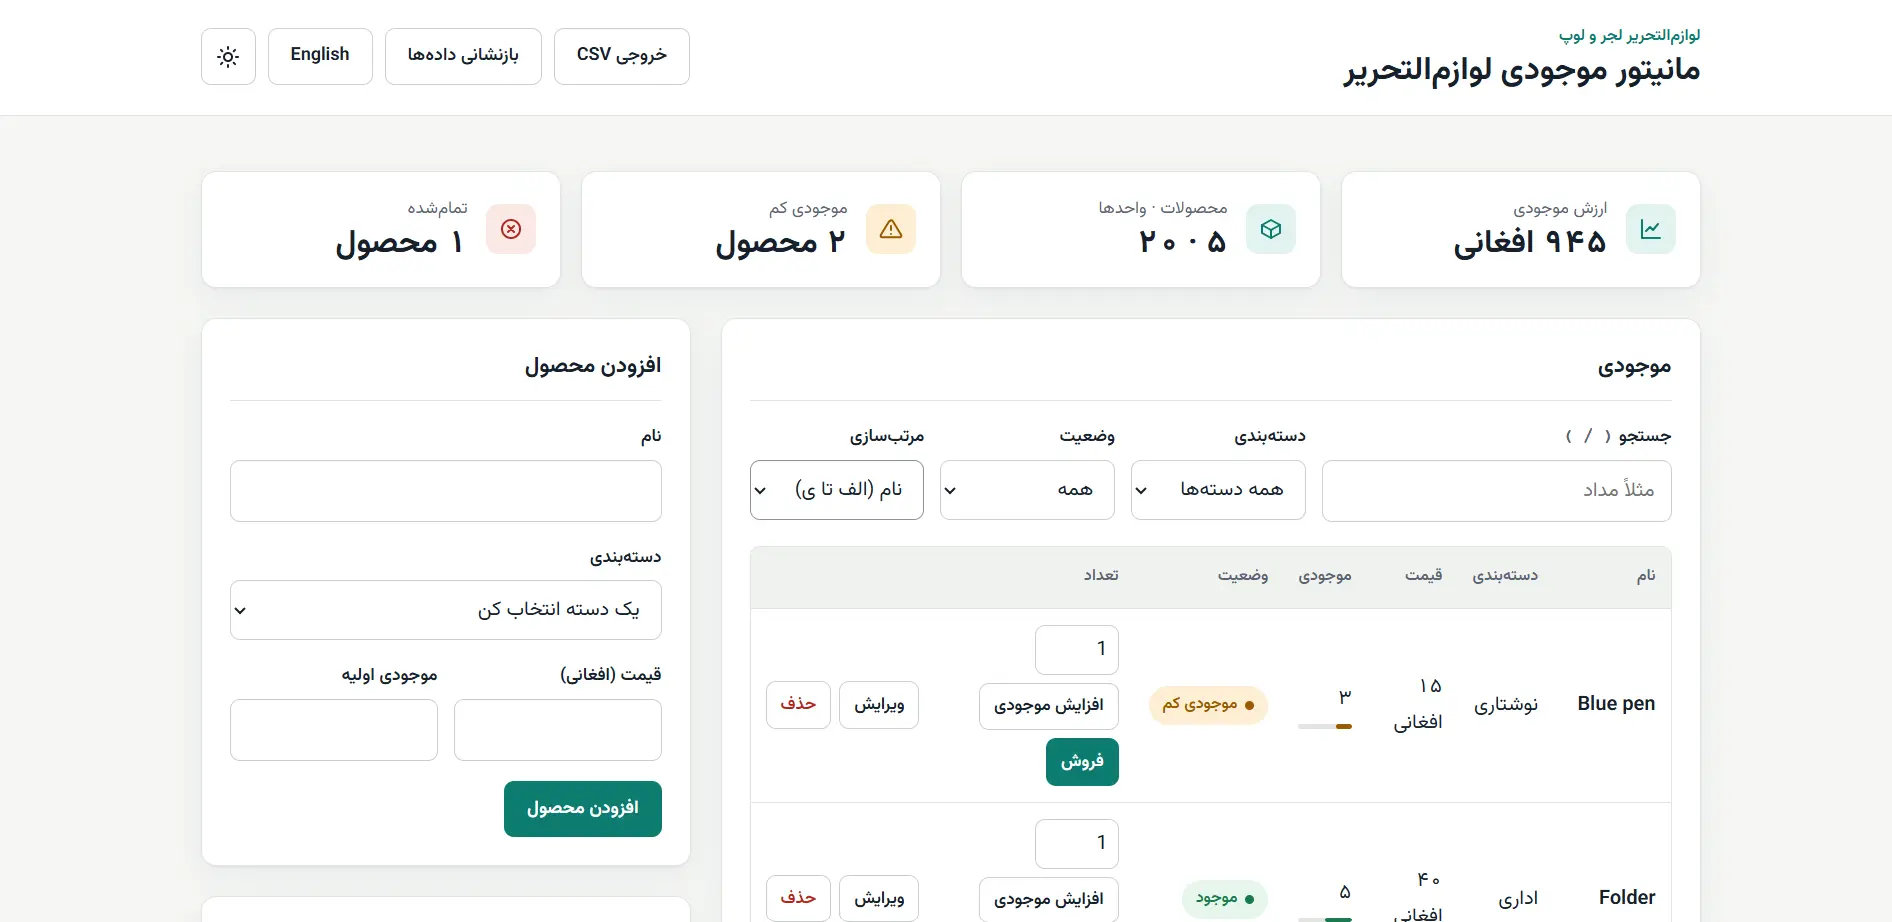
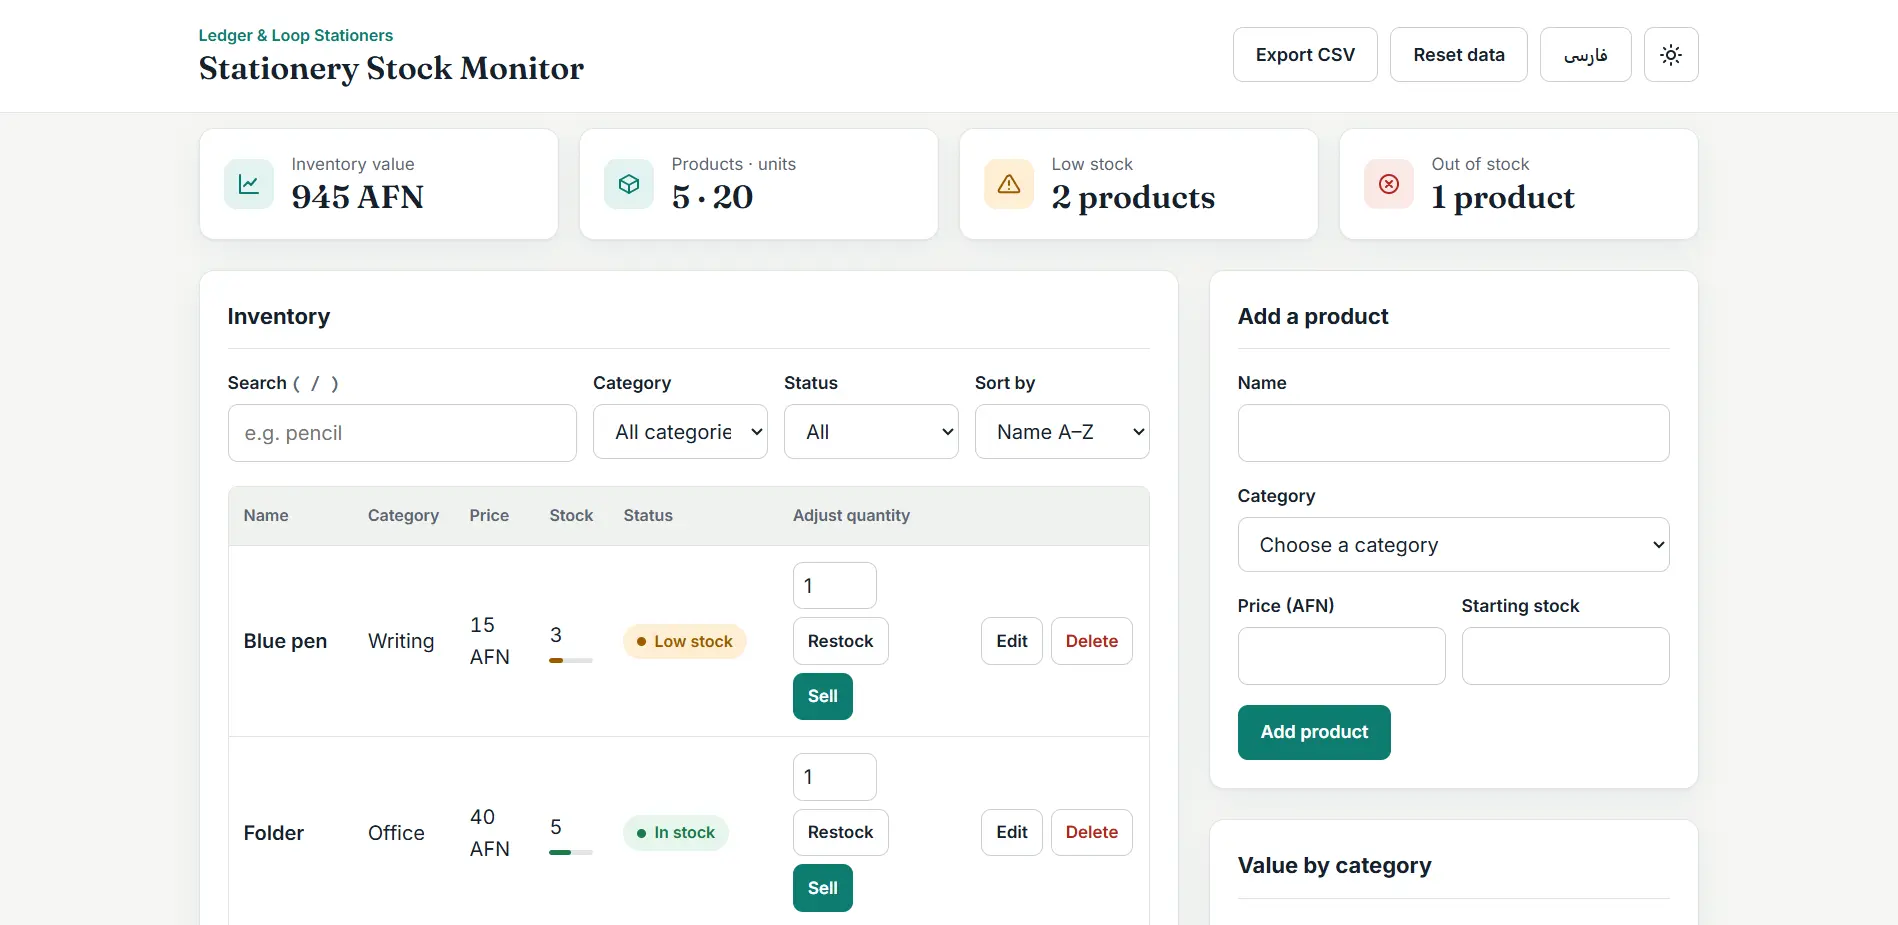
feat: Add projects images and improve css file

diff --git a/src/styles/tweaks.css b/src/styles/tweaks.css
@@ -198,3 +198,15 @@ body {
     display: none;
   }
 }
+/* =========================================================
+   7. Hamburger button: only on small screens
+   ========================================================= */
+.navbar-actions .menu-toggle {
+  display: none;
+}
+
+@media (max-width: 1000px) {
+  .navbar-actions .menu-toggle {
+    display: inline-grid;
+  }
+}
